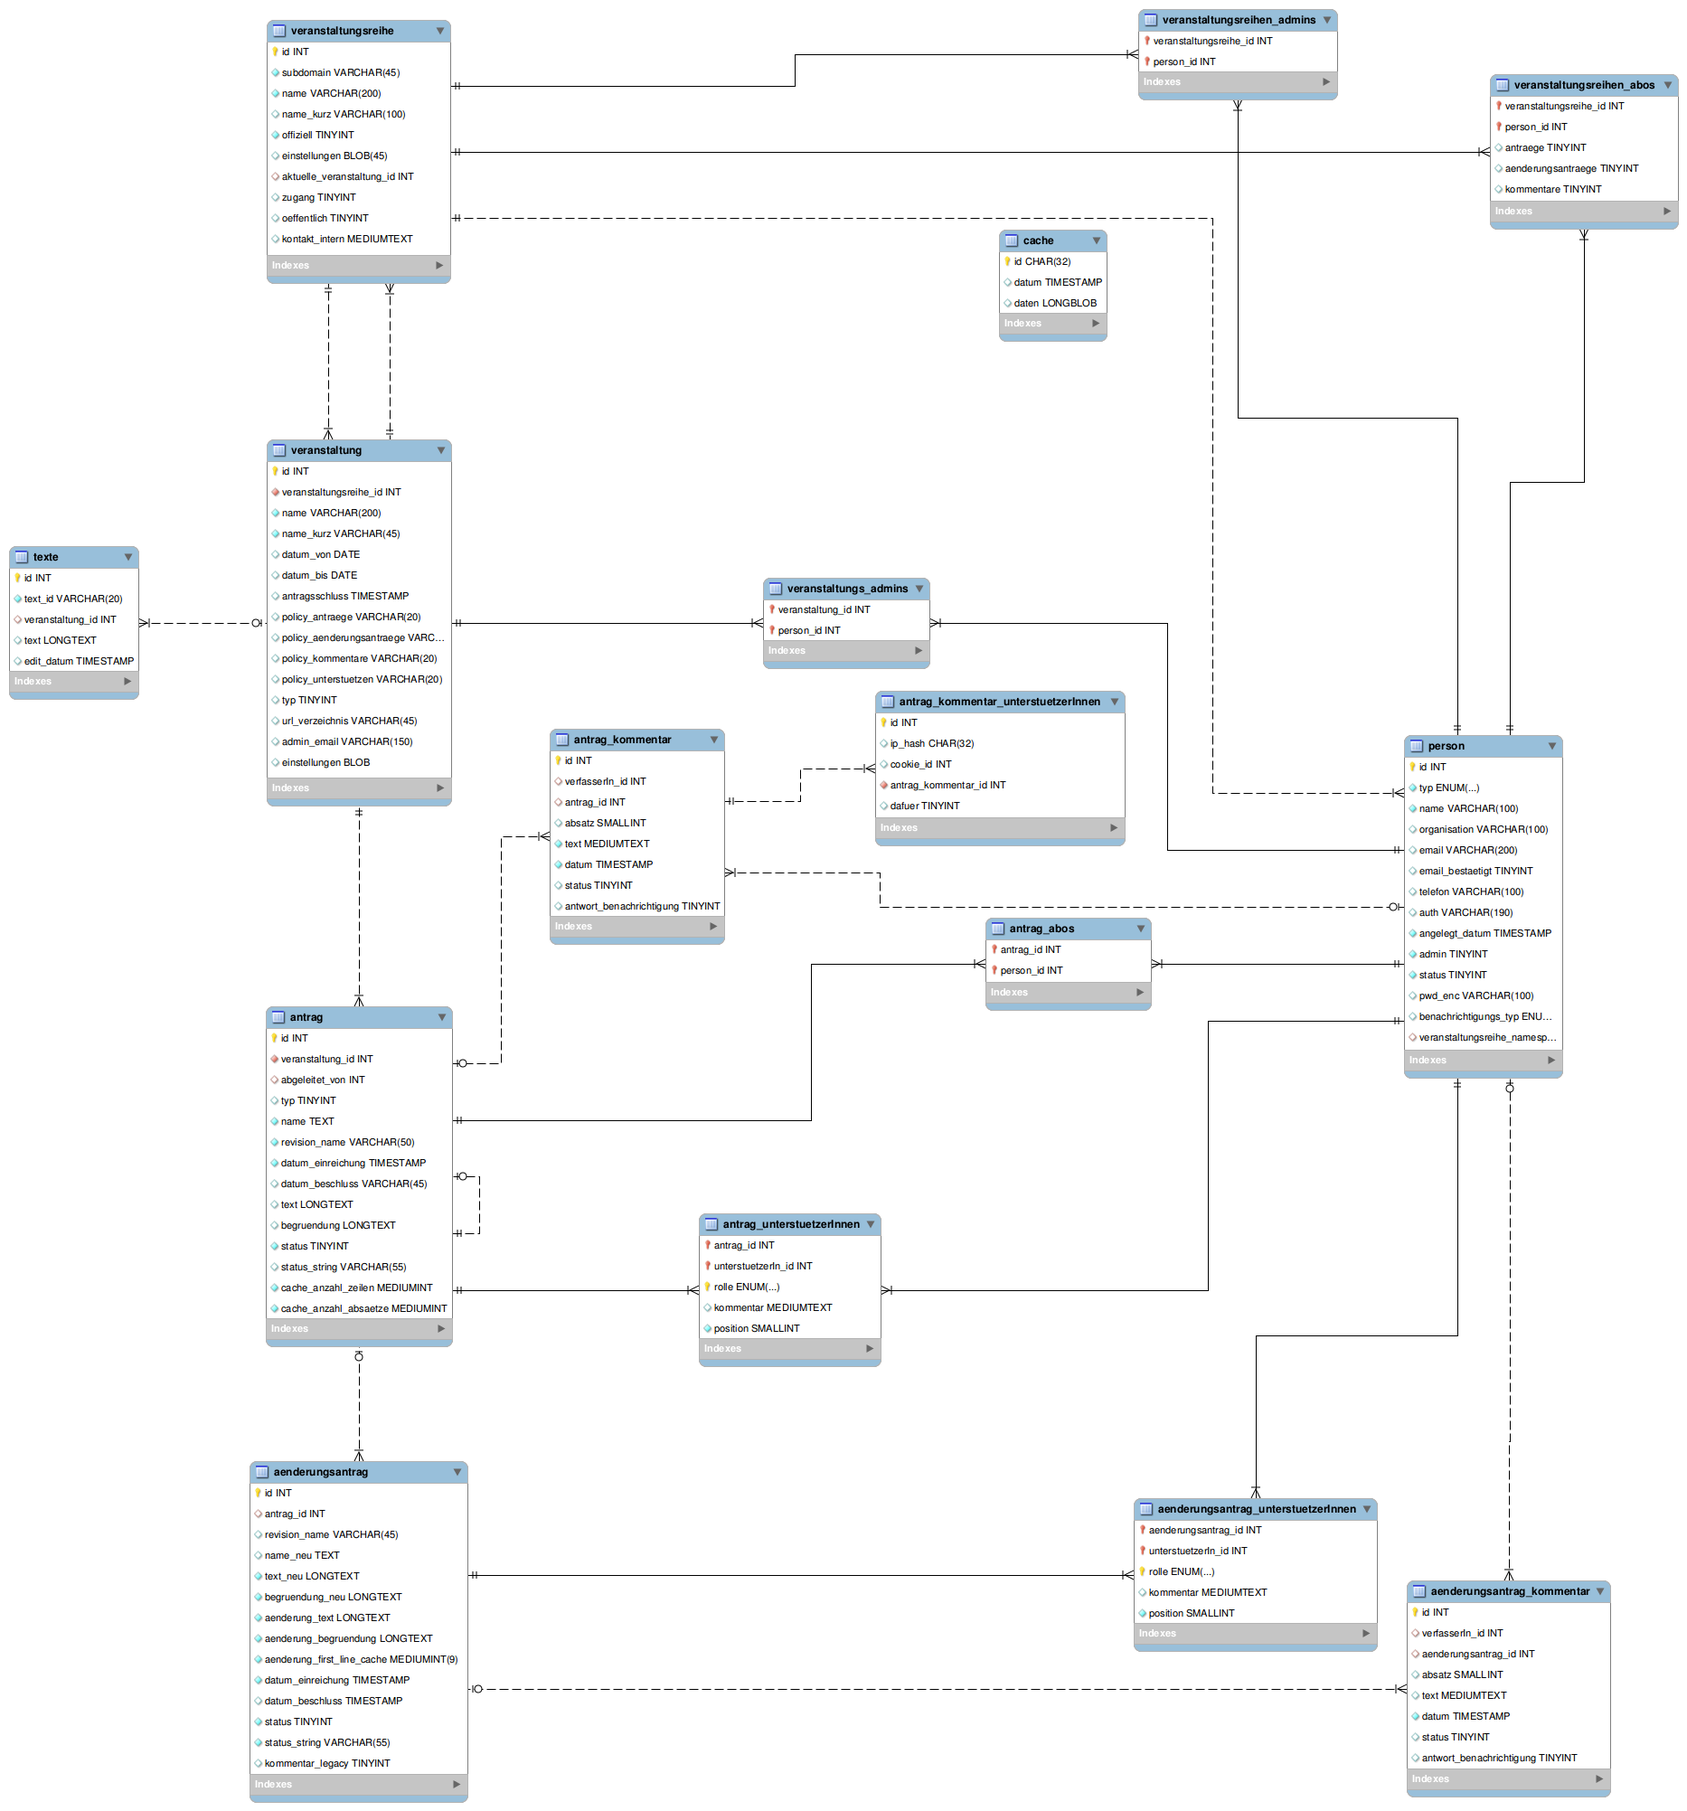
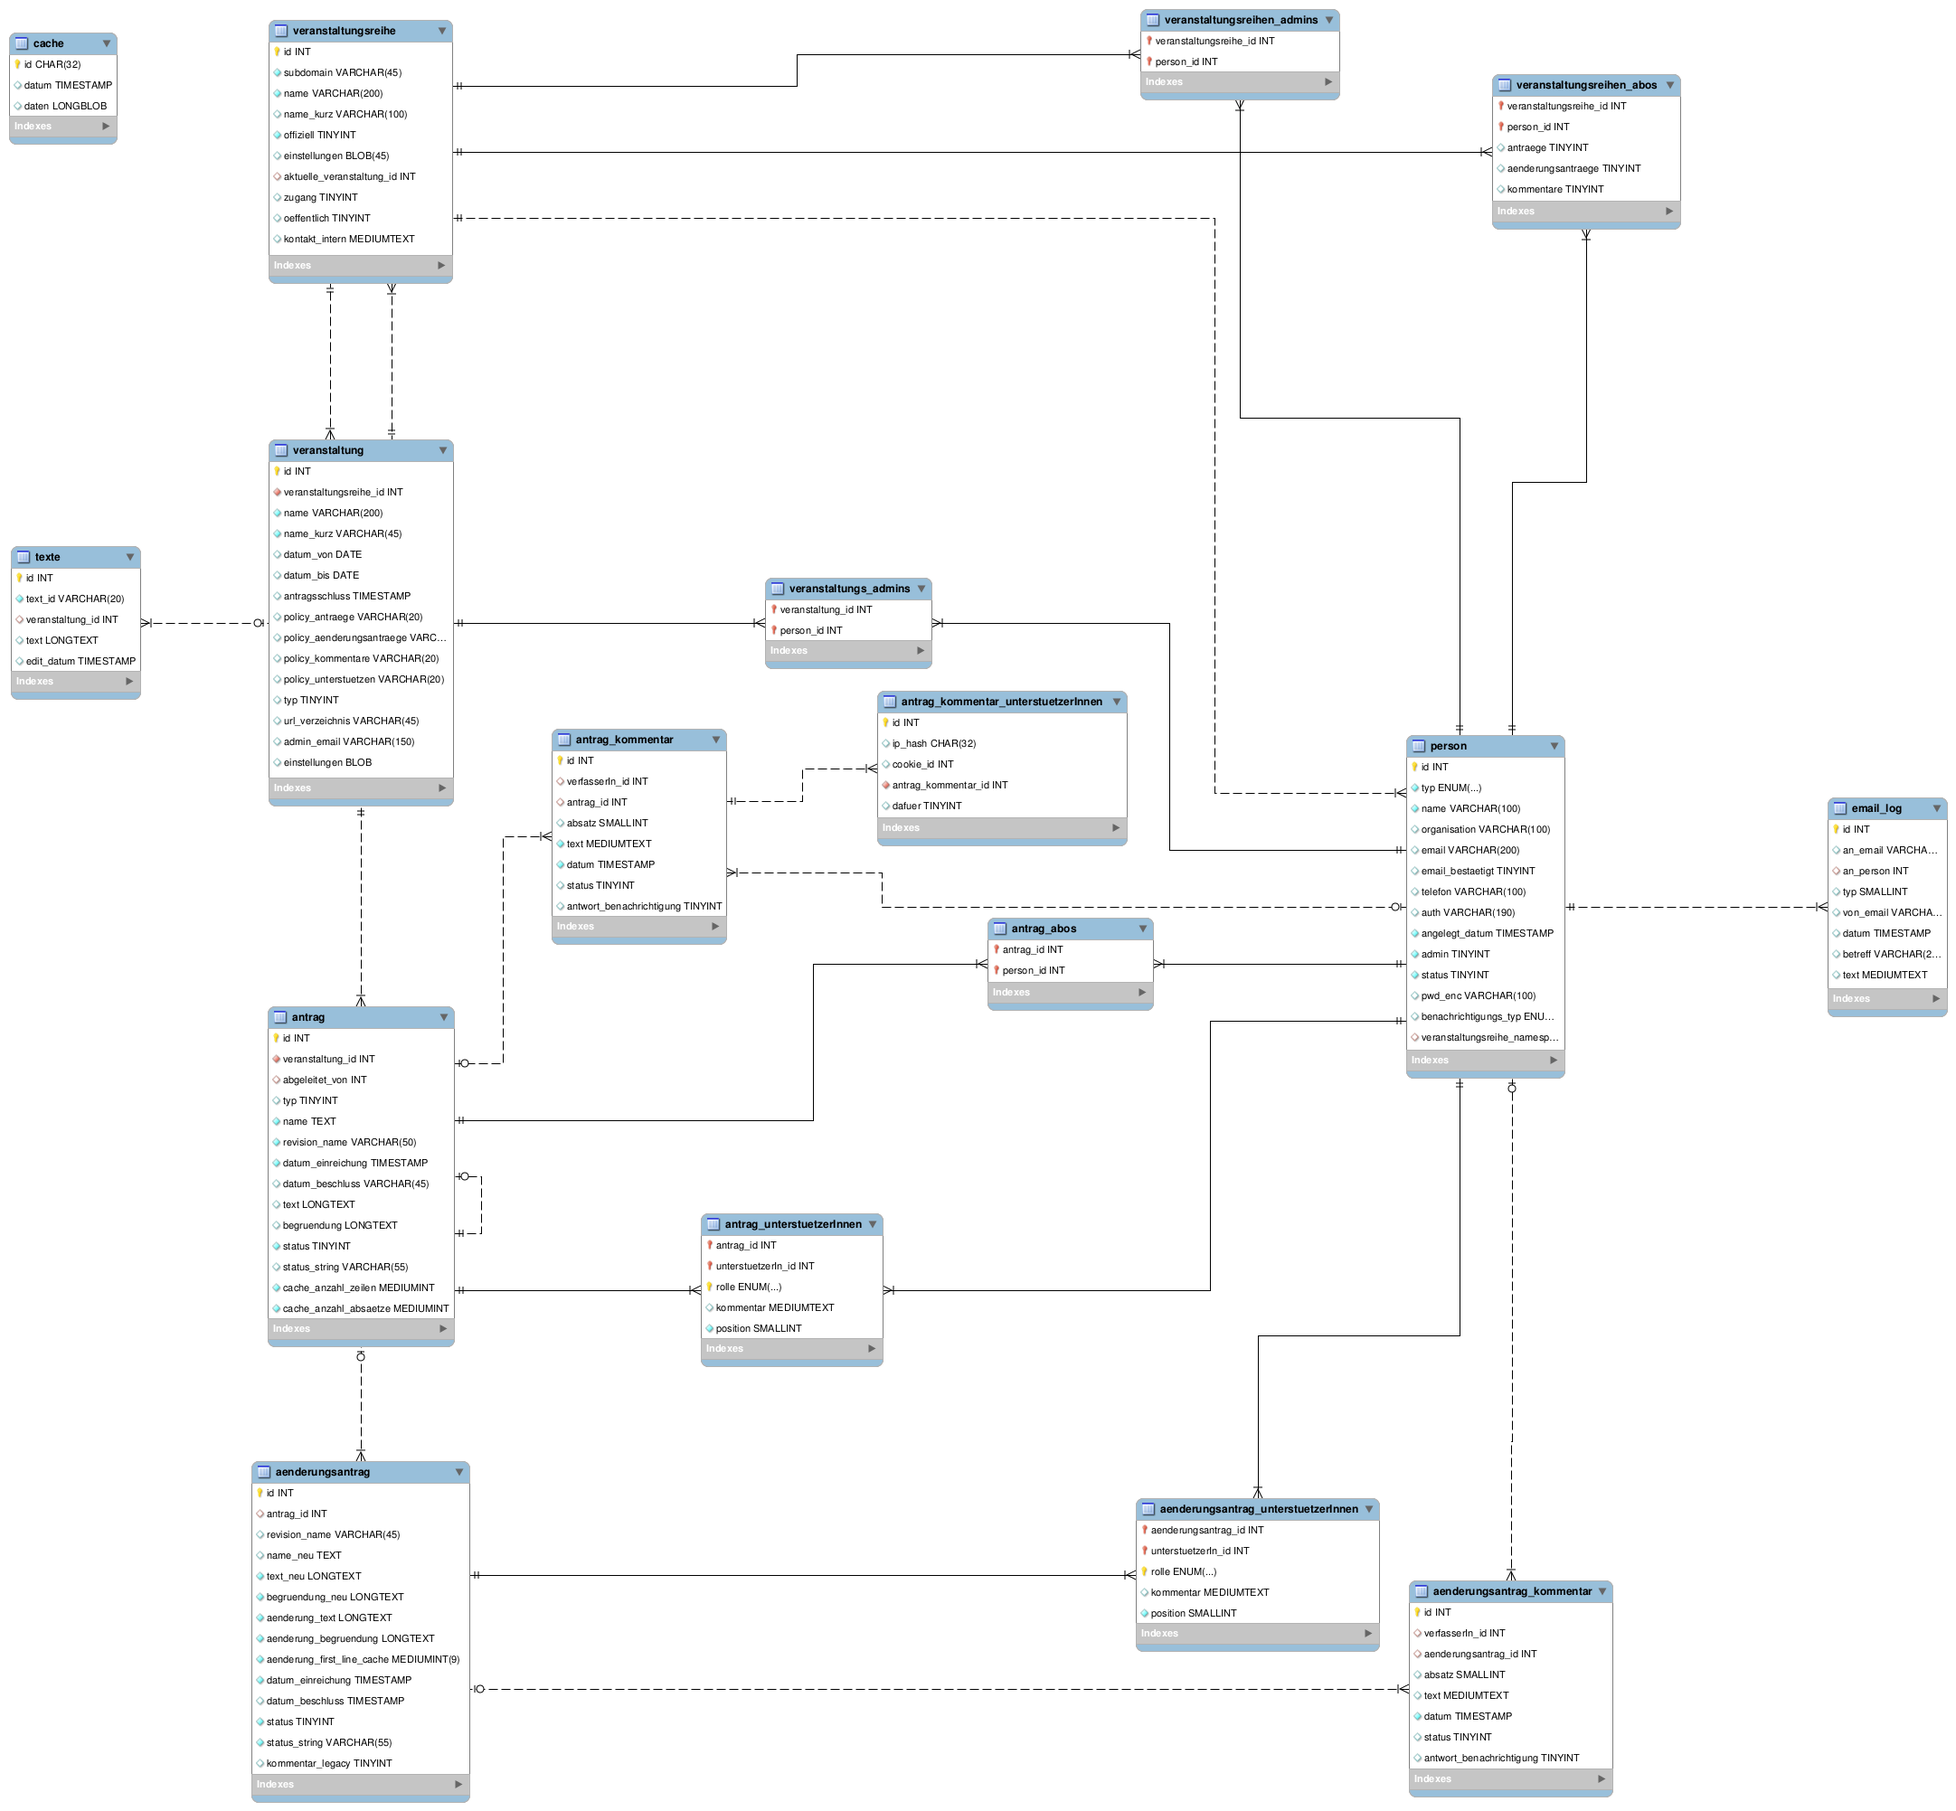
E-Mail-Protokoll

diff --git a/protected/components/AntragsgruenController.php b/protected/components/AntragsgruenController.php
@@ -149,19 +149,20 @@ class AntragsgruenController extends CController
 	 * @param string $password
 	 * @throws Exception
 	 */
-	protected function performLogin_username_password($success_redirect, $username, $password) {
+	protected function performLogin_username_password($success_redirect, $username, $password)
+	{
 		/** @var Person[] $users */
 		if (strpos($username, "@")) {
 			$sql_where1 = "auth = 'email:" . addslashes($username) . "'";
 			if ($this->veranstaltungsreihe) {
 				$sql_where2 = "(auth = 'ns_admin:" . addslashes($username) . "' AND veranstaltungsreihe_namespace = " . IntVal($this->veranstaltungsreihe->id) . ")";
-				$users = Person::model()->findAllBySql("SELECT * FROM person WHERE $sql_where1 OR $sql_where2");
+				$users      = Person::model()->findAllBySql("SELECT * FROM person WHERE $sql_where1 OR $sql_where2");
 			} else {
 				$users = Person::model()->findAllBySql("SELECT * FROM person WHERE $sql_where1");
 			}
 
 		} else {
-			$auth = "openid:https://service.gruene.de/openid/" . $username;
+			$auth  = "openid:https://service.gruene.de/openid/" . $username;
 			$users = Person::model()->findBySql("SELECT * FROM person WHERE auth = '" . addslashes($auth) . "' OR (auth LIKE 'openid:https://service.gruene.de%' AND email = '" . addslashes($username) . "')");
 		}
 
@@ -209,7 +210,8 @@ class AntragsgruenController extends CController
 	 * @param array $form_params
 	 * @throws Exception
 	 */
-	protected function performLogin_OAuth_init(&$model, $form_params)  {
+	protected function performLogin_OAuth_init(&$model, $form_params)
+	{
 		$model->attributes = $form_params;
 
 
@@ -241,7 +243,8 @@ class AntragsgruenController extends CController
 	/**
 	 * @param AntragUserIdentityOAuth $user_identity
 	 */
-	protected function performLogin_OAuth_create_user($user_identity) {
+	protected function performLogin_OAuth_create_user($user_identity)
+	{
 		$email = $user_identity->getEmail();
 
 		$user                   = new Person;
@@ -252,6 +255,10 @@ class AntragsgruenController extends CController
 		$user->angelegt_datum   = date("Y-m-d H:i:s");
 		$user->status           = Person::$STATUS_CONFIRMED;
 		$user->typ              = Person::$TYP_PERSON;
+
+		$password      = substr(md5(uniqid()), 0, 8);
+		$user->pwd_enc = Person::create_hash($password);
+
 		if (Person::model()->count() == 0) {
 			$user->admin = 1;
 			Yii::app()->user->setState("role", "admin");
@@ -259,18 +266,21 @@ class AntragsgruenController extends CController
 			$user->admin = 0;
 		}
 
+		$user->save();
+
 		if (trim($email) != "") {
-			$password      = substr(md5(uniqid()), 0, 8);
-			$user->pwd_enc = Person::create_hash($password);
-			mb_send_mail($email, "Dein Antragsgrün-Zugang", "Hallo!\n\nDein Zugang bei Antragsgrün wurde eben eingerichtet.\n\n" .
-				"Du kannst dich mit folgenden Daten einloggen:\nBenutzerInnenname: $email\nPasswort: $password\n\n" .
+			$user->refresh();
+			$send_text = "Hallo!\n\nDein Zugang bei Antragsgrün wurde eben eingerichtet.\n\n" .
+				"Du kannst dich mit folgenden Daten einloggen:\nBenutzerInnenname: $email\nPasswort: %passwort%\n\n" .
 				"Das Passwort kannst du hier ändern:\n" .
 				yii::app()->getBaseUrl(true) . yii::app()->createUrl("infos/passwort") . "\n\n" .
 				"Außerdem ist auch weiterhin ein Login über deinen Wurzelwerk-Zugang möglich.\n\n" .
-				"Liebe Grüße,\n  Das Antragsgrün-Team", "From: " . Yii::app()->params['mail_from']);
+				"Liebe Grüße,\n  Das Antragsgrün-Team";
+			AntraegeUtils::send_mail_log(EmailLog::$EMAIL_TYP_REGISTRIERUNG, $email, $user->id, "Dein Antragsgrün-Zugang", $send_text, null, array(
+				"%passwort%" => $password,
+			));
 		}
 
-		$user->save();
 	}
 
 
@@ -279,7 +289,8 @@ class AntragsgruenController extends CController
 	 * @param string $openid_mode
 	 * @throws Exception
 	 */
-	protected function performLogin_OAuth_callback($success_redirect, $openid_mode) {
+	protected function performLogin_OAuth_callback($success_redirect, $openid_mode)
+	{
 		/** @var LightOpenID $loid */
 		$loid = Yii::app()->loid->load();
 		if ($openid_mode != 'cancel') {
@@ -316,7 +327,8 @@ class AntragsgruenController extends CController
 	 * @param string $login
 	 * @throws Exception
 	 */
-	protected function performLogin_from_email_params($success_redirect, $login) {
+	protected function performLogin_from_email_params($success_redirect, $login)
+	{
 		/** @var Person $user */
 		$user = Person::model()->findByAttributes(array("id" => $login));
 		if ($user === null) {
@@ -366,9 +378,10 @@ class AntragsgruenController extends CController
 	 * @param string|null $bestaetigungscode
 	 * @return array
 	 */
-	protected function loginOderRegistrieren_backend($email, $password = null, $bestaetigungscode = null) {
-		$msg_ok                 = $msg_err = "";
-		$correct_person         = null;
+	protected function loginOderRegistrieren_backend($email, $password = null, $bestaetigungscode = null)
+	{
+		$msg_ok         = $msg_err = "";
+		$correct_person = null;
 
 		$person = Person::model()->findAll(array(
 			"condition" => "email='" . addslashes($email) . "' AND pwd_enc != ''"
@@ -390,7 +403,7 @@ class AntragsgruenController extends CController
 				if ($p->checkEmailBestaetigungsCode($bestaetigungscode)) {
 					$p->email_bestaetigt = 1;
 					if ($p->save()) {
-						$msg_ok = "Die E-Mail-Adresse wurde freigeschaltet. Ab jetzt wirst du entsprechend deinen Einstellungen benachrichtigt.";
+						$msg_ok   = "Die E-Mail-Adresse wurde freigeschaltet. Ab jetzt wirst du entsprechend deinen Einstellungen benachrichtigt.";
 						$identity = new AntragUserIdentityPasswd($p->email, $p->auth);
 						Yii::app()->user->login($identity);
 					} else {
@@ -415,12 +428,18 @@ class AntragsgruenController extends CController
 			$person->admin            = 0;
 
 			if ($person->save()) {
+				$person->refresh();
 				$best_code = $person->createEmailBestaetigungsCode();
 				$link      = Yii::app()->getBaseUrl(true) . $this->createUrl("veranstaltung/benachrichtigungen", array("code" => $best_code));
-				mb_send_mail($email, "Anmeldung bei Antragsgrün", "Hallo,\n\num Benachrichtigungen bei Antragsgrün zu erhalten, klicke entweder auf folgenden Link:\n$link\n\n"
-					. "...oder gib, wenn du auf Antragsgrün danach gefragt wirst, folgenden Code ein: $best_code\n\n"
-					. "Das Passwort für den Antragsgrün-Zugang lautet: " . $passwort . "\n\n"
-					. "Liebe Grüße,\n\tDas Antragsgrün-Team.", "From: " . Yii::app()->params['mail_from']);
+				$send_text = "Hallo,\n\num Benachrichtigungen bei Antragsgrün zu erhalten, klicke entweder auf folgenden Link:\n%best_link%\n\n"
+					. "...oder gib, wenn du auf Antragsgrün danach gefragt wirst, folgenden Code ein: %code%\n\n"
+					. "Das Passwort für den Antragsgrün-Zugang lautet: %passwort%\n\n"
+					. "Liebe Grüße,\n\tDas Antragsgrün-Team.";
+				AntraegeUtils::send_mail_log(EmailLog::$EMAIL_TYP_REGISTRIERUNG, $email, $person->id, "Anmeldung bei Antragsgrün", $send_text, null, array(
+					"%code%"      => $best_code,
+					"%best_link%" => $link,
+					"%passwort%"  => $passwort,
+				));
 				$correct_person = $person;
 
 				$identity = new AntragUserIdentityPasswd($email, $person->auth);
@@ -434,7 +453,6 @@ class AntragsgruenController extends CController
 		}
 		return array($correct_person, $msg_ok, $msg_err);
 	}
-
 
 
 	/**

diff --git a/protected/controllers/AenderungsantragController.php b/protected/controllers/AenderungsantragController.php
@@ -169,11 +169,12 @@ class AenderungsantragController extends AntragsgruenController
 				if ($this->veranstaltung->admin_email != "" && $kommentar->status == IKommentar::$STATUS_NICHT_FREI) {
 					$kommentar_link = $kommentar->getLink(true);
 					$mails          = explode(",", $this->veranstaltung->admin_email);
-					foreach ($mails as $mail) if (trim($mail) != "") mb_send_mail(trim($mail), "Neuer Kommentar - bitte freischalten.",
-						"Es wurde ein neuer Kommentar zum Änderungsantrag \"" . $aenderungsantrag->revision_name . " zu " . $aenderungsantrag->antrag->revision_name . " - " . $aenderungsantrag->antrag->name . "\" verfasst (nur eingeloggt sichtbar):\n" .
-						"Link: " . $kommentar_link,
-						"From: " . Yii::app()->params['mail_from']
-					);
+					$mail_text      = "Es wurde ein neuer Kommentar zum Änderungsantrag \"" . $aenderungsantrag->revision_name . " zu " . $aenderungsantrag->antrag->revision_name . " - " . $aenderungsantrag->antrag->name . "\" verfasst (nur eingeloggt sichtbar):\n" .
+						"Link: " . $kommentar_link;
+
+					foreach ($mails as $mail) if (trim($mail) != "") {
+						AntraegeUtils::send_mail_log(EmailLog::$EMAIL_TYP_ANTRAG_BENACHRICHTIGUNG_ADMIN, trim($mail), null, "Neuer Kommentar - bitte freischalten.", $mail_text);
+					}
 				}
 
 				if ($kommentar->status == IKommentar::$STATUS_FREI) {
@@ -385,11 +386,12 @@ class AenderungsantragController extends AntragsgruenController
 
 			if ($aenderungsantrag->antrag->veranstaltung->admin_email != "") {
 				$mails = explode(",", $aenderungsantrag->antrag->veranstaltung->admin_email);
-				foreach ($mails as $mail) if (trim($mail) != "") mb_send_mail(trim($mail), "Neuer Änderungsantrag",
-					"Es wurde ein neuer Änderungsantrag zum Antrag \"" . $aenderungsantrag->antrag->name . "\" eingereicht.\n" .
-					"Link: " . yii::app()->getBaseUrl(true) . $this->createUrl("aenderungsantrag/anzeige", array("antrag_id" => $antrag_id, "aenderungsantrag_id" => $aenderungsantrag_id)),
-					"From: " . Yii::app()->params['mail_from']
-				);
+				$mail_text = "Es wurde ein neuer Änderungsantrag zum Antrag \"" . $aenderungsantrag->antrag->name . "\" eingereicht.\n" .
+					"Link: " . yii::app()->getBaseUrl(true) . $this->createUrl("aenderungsantrag/anzeige", array("antrag_id" => $antrag_id, "aenderungsantrag_id" => $aenderungsantrag_id));
+
+				foreach ($mails as $mail) if (trim($mail) != "") {
+					AntraegeUtils::send_mail_log(EmailLog::$EMAIL_TYP_ANTRAG_BENACHRICHTIGUNG_ADMIN, trim($mail), null, "Neuer Änderungsantrag", $mail_text);
+				}
 			}
 
 			if ($aenderungsantrag->status == Antrag::$STATUS_EINGEREICHT_GEPRUEFT) {

diff --git a/protected/controllers/AntragController.php b/protected/controllers/AntragController.php
@@ -181,11 +181,12 @@ class AntragController extends AntragsgruenController
 				if ($this->veranstaltung->admin_email != "" && $kommentar->status == IKommentar::$STATUS_NICHT_FREI) {
 					$kommentar_link = $kommentar->getLink(true);
 					$mails          = explode(",", $this->veranstaltung->admin_email);
-					foreach ($mails as $mail) if (trim($mail) != "") mb_send_mail(trim($mail), "Neuer Kommentar - bitte freischalten.",
-						"Es wurde ein neuer Kommentar zum Antrag \"" . $antrag->name . "\" verfasst (nur eingeloggt sichtbar):\n" .
-						"Link: " . $kommentar_link,
-						"From: " . Yii::app()->params['mail_from']
-					);
+					$mail_text = "Es wurde ein neuer Kommentar zum Antrag \"" . $antrag->name . "\" verfasst (nur eingeloggt sichtbar):\n" .
+						"Link: " . $kommentar_link;
+
+					foreach ($mails as $mail) if (trim($mail) != "") {
+						AntraegeUtils::send_mail_log(EmailLog::$EMAIL_TYP_ANTRAG_BENACHRICHTIGUNG_ADMIN, trim($mail), null, "Neuer Kommentar - bitte freischalten.", $mail_text);
+					}
 				}
 
 				if ($kommentar->status == IKommentar::$STATUS_FREI) {
@@ -619,7 +620,6 @@ class AntragController extends AntragsgruenController
 
 	}
 
-
 	/**
 	 * @param string $veranstaltungsreihe_id
 	 * @param string $veranstaltung_id
@@ -652,11 +652,12 @@ class AntragController extends AntragsgruenController
 
 			if ($antrag->veranstaltung->admin_email != "") {
 				$mails = explode(",", $antrag->veranstaltung->admin_email);
-				foreach ($mails as $mail) if (trim($mail) != "") mb_send_mail(trim($mail), "Neuer Antrag",
-					"Es wurde ein neuer Antrag \"" . $antrag->name . "\" eingereicht.\n" .
-					"Link: " . yii::app()->getBaseUrl(true) . $this->createUrl("antrag/anzeige", array("antrag_id" => $antrag->id)),
-					"From: " . Yii::app()->params['mail_from']
-				);
+				$mail_text = "Es wurde ein neuer Antrag \"" . $antrag->name . "\" eingereicht.\n" .
+					"Link: " . yii::app()->getBaseUrl(true) . $this->createUrl("antrag/anzeige", array("antrag_id" => $antrag->id));
+
+				foreach ($mails as $mail) if (trim($mail) != "") {
+					AntraegeUtils::send_mail_log(EmailLog::$EMAIL_TYP_ANTRAG_BENACHRICHTIGUNG_ADMIN, trim($mail), null, "Neuer Antrag", $mail_text);
+				}
 			}
 
 			if ($antrag->status == Antrag::$STATUS_EINGEREICHT_GEPRUEFT) {

diff --git a/protected/components/AntraegeUtils.php b/protected/components/AntraegeUtils.php
@@ -19,4 +19,31 @@ class AntraegeUtils
 	}
 
 
+	/**
+	 * @param int $mail_typ
+	 * @param string $mail_to_email
+	 * @param null|int $mail_to_person_id
+	 * @param string $betreff
+	 * @param string $text
+	 * @param null|string $mail_from_email
+	 * @param null|array $no_log_replaces
+	 */
+	public static function send_mail_log($mail_typ, $mail_to_email, $mail_to_person_id = null, $betreff, $text, $mail_from_email = null, $no_log_replaces = null)
+	{
+		$send_text      = ($no_log_replaces ? str_replace(array_keys($no_log_replaces), array_values($no_log_replaces), $text) : $text);
+		$send_mail_from = ($mail_from_email ? $mail_from_email : Yii::app()->params['mail_from']);
+		mb_send_mail($mail_to_email, $betreff, $send_text, "From: " . $send_mail_from);
+
+		$obj = new EmailLog();
+		if ($mail_to_person_id) $obj->an_person = $mail_to_person_id;
+		$obj->an_email  = $mail_to_email;
+		$obj->typ       = $mail_typ;
+		$obj->von_email = $send_mail_from;
+		$obj->betreff   = $betreff;
+		$obj->text      = $text;
+		$obj->datum     = new CDbExpression('NOW()');
+		$obj->save();
+	}
+
+
 }

diff --git a/protected/models/Person.php b/protected/models/Person.php
@@ -222,7 +222,7 @@ class Person extends GxActiveRecord
 		$abbestellen_url = yii::app()->getBaseUrl(true) . yii::app()->createUrl("veranstaltung/benachrichtigungenAbmelden", array("veranstaltungsreihe_id" => $veranstaltungsreihe->subdomain, "code" => $this->getBenachrichtigungAbmeldenCode()));
 		$gruss = "Hallo " . $this->name . ",\n\n";
 		$sig = "\n\nLiebe Grüße,\n   Das Antragsgrün-Team\n\n--\n\nFalls du diese Benachrichtigung abbestellen willst, kannst du das hier tun:\n" . $abbestellen_url;
-		mb_send_mail($this->email, $betreff, $gruss . $text . $sig, "From: " . Yii::app()->params['mail_from']);
+		AntraegeUtils::send_mail_log(EmailLog::$EMAIL_TYP_ANTRAG_BENACHRICHTIGUNG_USER, $this->email, $this->id, $betreff, $gruss . $text . $sig);
 	}
 
 	/**
